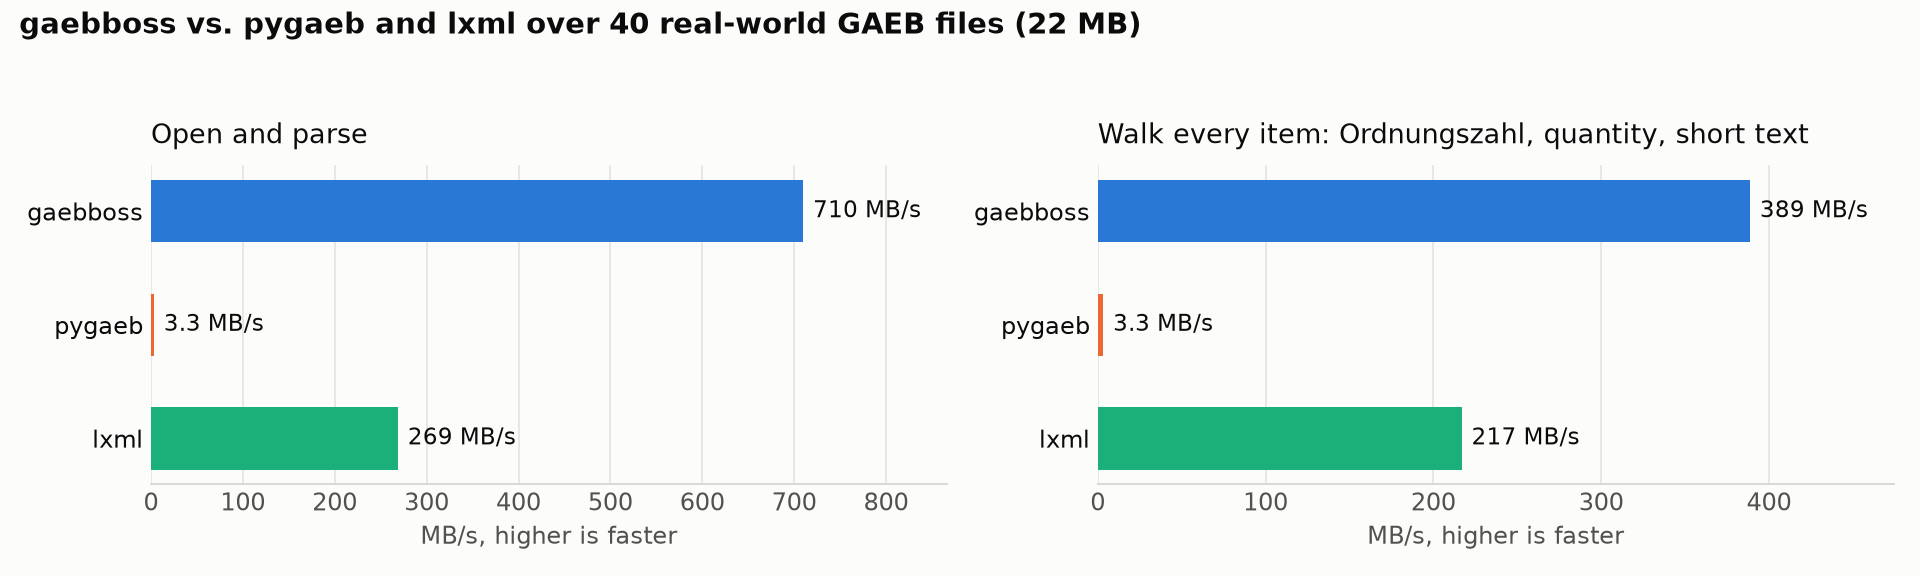
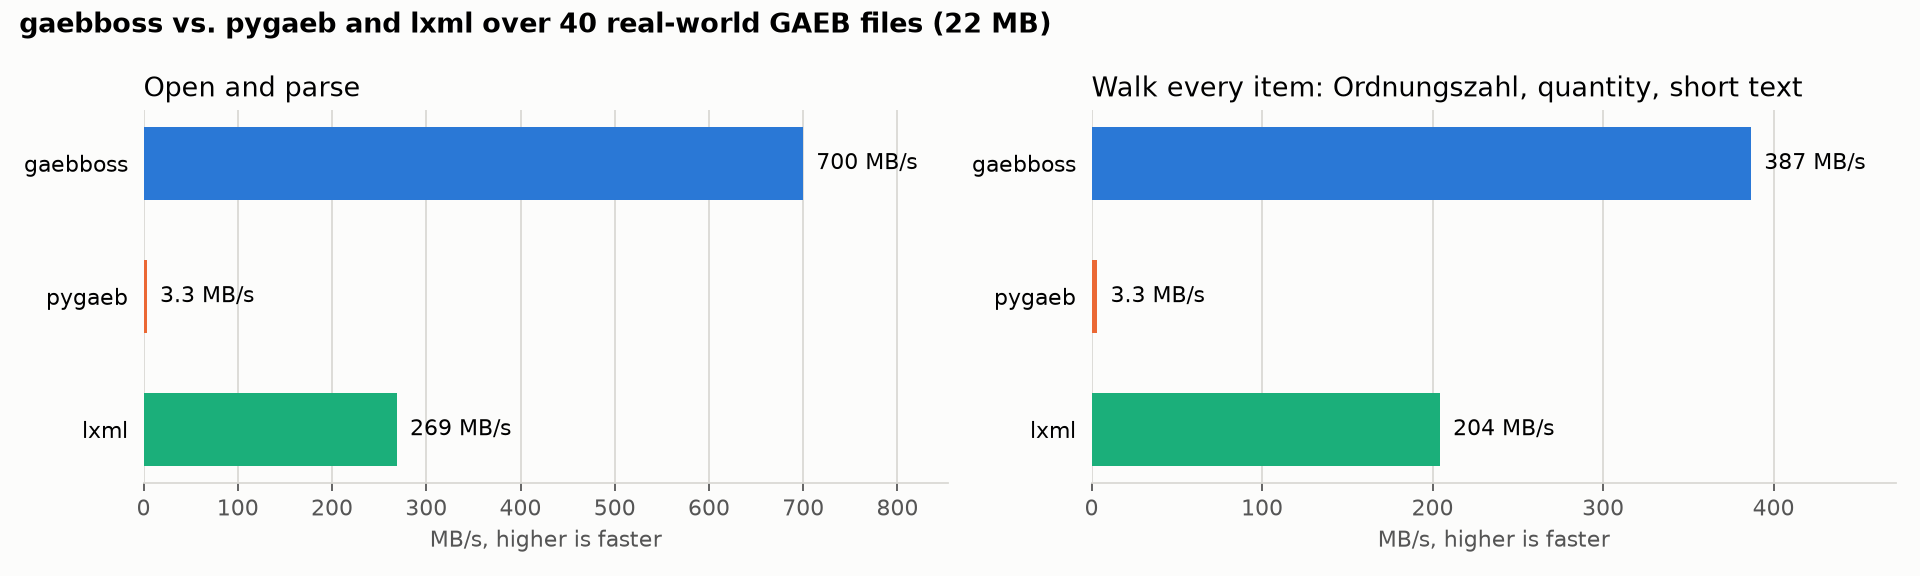
docs(bench): re-measure with quantities in the item walk, chart from plot.py
The walk was documented and charted as reading Ordnungszahl, quantity and
short text, but bench.py read no quantity for any library. It now reads
item.quantity, pygaeb's qty and lxml's Qty text. plot.py renders
results.png from results.json, and make bench-py runs both with the
published settings.

Re-measured on the same workstation and 40-file corpus (21,956,337 bytes,
pygaeb 1.21.0, lxml 6.1.3, best of 3): parse 700 MB/s against lxml 269
and pygaeb 3.3; item walk 387 against lxml 204 and pygaeb 3.3. Against
0.1.0 built from source with the same toolchain, three alternating best
of 5 runs: parse 748-853 vs 802-856, walk 382-408 vs 415-422 MB/s.

diff --git a/benchmarks/plot.py b/benchmarks/plot.py
@@ -1,0 +1,64 @@
+#!/usr/bin/env python3
+"""Render benchmarks/results.png from benchmarks/results.json."""
+
+from __future__ import annotations
+
+import json
+import pathlib
+
+import matplotlib
+
+matplotlib.use("Agg")
+
+import matplotlib.pyplot as plt
+
+HERE = pathlib.Path(__file__).resolve().parent
+COLORS = {"gaebboss": "#2a78d6", "pygaeb": "#eb6834", "lxml": "#1baf7a"}
+PANELS = {
+    "parse": "Open and parse",
+    "items": "Walk every item: Ordnungszahl, quantity, short text",
+}
+BACKGROUND = "#fcfcfb"
+RULE = "#dad9d4"
+MUTED = "#555555"
+
+
+def throughput(value: float) -> str:
+    return f"{value:.0f} MB/s" if value >= 10 else f"{value:.1f} MB/s"
+
+
+def main() -> None:
+    data = json.loads((HERE / "results.json").read_text())
+    results = data["results"]
+    figure, axes = plt.subplots(1, 2, figsize=(12, 3.6), dpi=160, facecolor=BACKGROUND)
+    figure.suptitle(
+        f"gaebboss vs. pygaeb and lxml over {data['files']} real-world GAEB files "
+        f"({data['bytes'] / 1e6:.0f} MB)",
+        x=0.01,
+        ha="left",
+        fontweight="bold",
+    )
+    for axis, (op, title) in zip(axes, PANELS.items()):
+        values = [results[f"{name}/{op}"]["mb_per_s"] for name in COLORS]
+        if None in values:
+            raise RuntimeError(f"{op}: a library failed on some files, no throughput to plot")
+        bars = axis.barh(list(COLORS), values, color=list(COLORS.values()), height=0.55)
+        axis.invert_yaxis()
+        axis.bar_label(bars, labels=[throughput(v) for v in values], padding=6)
+        axis.set_title(title, loc="left")
+        axis.set_xlabel("MB/s, higher is faster", color=MUTED)
+        axis.set_xlim(0, max(values) * 1.22)
+        axis.set_facecolor(BACKGROUND)
+        axis.grid(axis="x", color=RULE)
+        axis.set_axisbelow(True)
+        for side in ("top", "right", "left"):
+            axis.spines[side].set_visible(False)
+        axis.spines["bottom"].set_color(RULE)
+        axis.tick_params(axis="x", colors=MUTED)
+        axis.tick_params(axis="y", left=False)
+    figure.tight_layout()
+    figure.savefig(HERE / "results.png", facecolor=BACKGROUND)
+
+
+if __name__ == "__main__":
+    main()

diff --git a/benchmarks/bench.py b/benchmarks/bench.py
@@ -25,7 +25,9 @@ def gaebboss_parse(path: pathlib.Path) -> int:
 def gaebboss_items(path: pathlib.Path) -> int:
     import gaebboss
 
-    return sum(len(i.oz) + len(i.short_text) for i in gaebboss.Document(path).items())
+    return sum(
+        len(i.oz) + len(i.short_text) + bool(i.quantity) for i in gaebboss.Document(path).items()
+    )
 
 
 def pygaeb_parse(path: pathlib.Path) -> int:
@@ -38,7 +40,9 @@ def pygaeb_items(path: pathlib.Path) -> int:
     from pygaeb import GAEBParser
 
     doc = GAEBParser.parse(str(path))
-    return sum(len(i.full_oz or "") + len(i.short_text or "") for i in doc.iter_items())
+    return sum(
+        len(i.full_oz or "") + len(i.short_text or "") + bool(i.qty) for i in doc.iter_items()
+    )
 
 
 def lxml_parse(path: pathlib.Path) -> int:
@@ -55,6 +59,7 @@ def lxml_items(path: pathlib.Path) -> int:
     total = 0
     for item in root.iter(f"{{{ns}}}Item"):
         total += len(item.get("RNoPart", ""))
+        total += len(item.findtext(f"{{{ns}}}Qty") or "")
         for span in item.iter(f"{{{ns}}}span"):
             total += len(span.text or "")
     return total

diff --git a/README.md b/README.md
@@ -31,7 +31,7 @@ GAEB is how German construction procurement moves: the Leistungsverzeichnis leav
 
 - **Generated from the standard**: 525 elements of DA XML 3.1, 3.2 and 3.3 typed, read and written straight from the vendored XSDs; `cargo xtask gen --check` fails CI when the code drifts from the schema ([coverage](docs/src/reference/coverage.md)).
 - **Every phase, every version**: X80 to X89 in DA XML 3.0 to 3.3 read losslessly; X83, X84 and X86 written in 3.2 and 3.3, element order and phase restrictions from the phase XSD, proven valid against the official schemas with lxml ([conformance](scripts/conformance.sh)).
-- **Fastest GAEB implementation measured**: 710 MB/s parsing real files from Python, about 215× pygaeb and 2.6× raw lxml; the 75 MB X81 in the corpus reads in 29 ms ([benchmarks](#benchmarks)).
+- **Fastest GAEB implementation measured**: 700 MB/s parsing real files from Python, about 210× pygaeb and 2.6× raw lxml; the 75 MB X81 in the corpus reads in 29 ms ([benchmarks](#benchmarks)).
 - **No floats near money**: `Decimal { mantissa, scale }` throughout, kaufmännisch rounding and item, discount and category totals per Fachdokumentation 4.6.17.
 - **Tender to bid**: `Bid::from_tender` takes an X83, applies unit prices, price components, not-offered marks, free quantities, bidder text complements, discount and VAT, and writes the X84 the way the "Regeln für X84" demand it, in the version the tender came in.
 - **Bill-of-quantities semantics**: Ordnungszahlen formed from `BoQBkdn`, item kinds (Grund-, Alternativ-, Bedarfs-, Pauschal-, Zulage-, Stundenlohnposition), categories, markup items, declared against computed totals.
@@ -156,12 +156,12 @@ Against pygaeb (the fullest open GAEB reader, Python on lxml) and raw lxml over 
   <img src="https://raw.githubusercontent.com/4thel00z/gaebboss/main/benchmarks/results.png" alt="gaebboss vs. pygaeb and lxml" width="100%">
 </p>
 
-**gaebboss is the fastest on both operations, including against lxml, which builds no GAEB model at all**: 710 MB/s opening and parsing against lxml's 269 and pygaeb's 3.3, and 389 MB/s walking every item with its Ordnungszahl, quantity and short text against lxml's 217 and pygaeb's 3.3.
+**gaebboss is the fastest on both operations, including against lxml, which builds no GAEB model at all**: 700 MB/s opening and parsing against lxml's 269 and pygaeb's 3.3, and 387 MB/s walking every item with its Ordnungszahl, quantity and short text against lxml's 204 and pygaeb's 3.3.
 
 <details>
 <summary><strong>Method and fine print</strong></summary>
 
-Best-of-3 per file over the first 40 files of a 164-file corpus of third-party exports (22 MB, DA XML 3.0 to 3.3), measured on an aarch64 workstation (Cortex-X925, 20 cores, single-threaded throughout) from the installed Python packages, every row in one session. The corpus is not redistributable; reproduce on your own files with [`benchmarks/bench.py`](benchmarks/README.md). The lxml rows parse the file and iterate `Item` elements reading `RNoPart` and `span` text: no Ordnungszahl formation, no kind, no decimals, so they are a floor for any lxml-based reader, not a competitor. pygaeb reads every text eagerly; its two rows coincide because parsing already does the work.
+Best-of-3 per file over the first 40 files of a 164-file corpus of third-party exports (22 MB, DA XML 3.0 to 3.3), measured on an aarch64 workstation (Cortex-X925, 20 cores, single-threaded throughout) from the installed Python packages, every row in one session. The corpus is not redistributable; reproduce on your own files with [`benchmarks/bench.py`](benchmarks/README.md). The lxml rows parse the file and iterate `Item` elements reading `RNoPart`, `Qty` and `span` text: no Ordnungszahl formation, no kind, no decimals, so they are a floor for any lxml-based reader, not a competitor. pygaeb reads every text eagerly; its two rows coincide because parsing already does the work.
 
 The Rust stages, from criterion on the same machine ([details](docs/src/reference/performance.md)):
 

diff --git a/benchmarks/README.md b/benchmarks/README.md
@@ -7,10 +7,10 @@ is the directory's bytes over the summed best times.
 
 ```bash
 make develop                                   # gaebboss into .venv
-uv pip install --python .venv/bin/python pygaeb lxml matplotlib
-.venv/bin/python -I benchmarks/bench.py ~/gaeb-files --repeat 3 --limit 40
+make bench-py GAEBBOSS_CORPUS=~/gaeb-files     # bench.py --repeat 3 --limit 40, then plot.py
 ```
 
-`results.json` is written next to the script; `results.png` in this
-directory was rendered from it on 2026-11-01 (aarch64 workstation,
-Cortex-X925, single-threaded, 40 third-party files, 22 MB).
+`bench.py` writes `results.json` next to itself and `plot.py` renders
+`results.png` from it. The committed chart is from 2026-11-01 (gaebboss
+after 0.1.0, pygaeb 1.21.0, lxml 6.1.3; aarch64 workstation, Cortex-X925,
+single-threaded, 40 third-party files, 22 MB).
